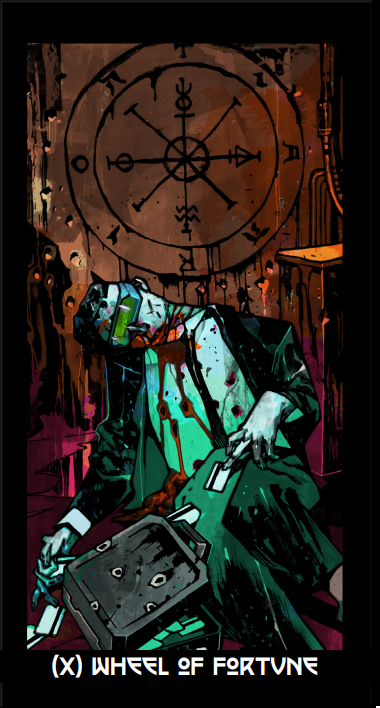
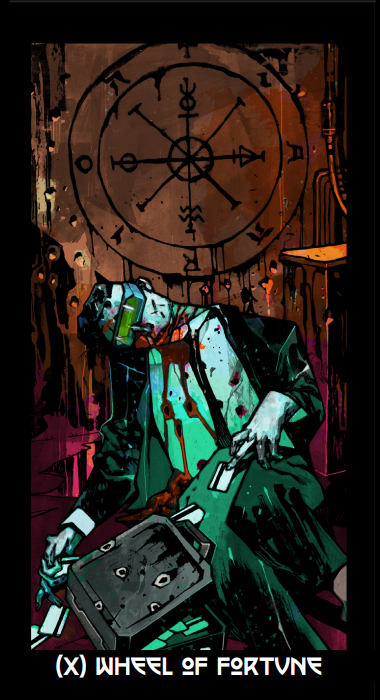
Melhorias gerais
Reset.css, icone, botão melhorado e melhor para celular

diff --git a/reset.css b/reset.css
@@ -1,0 +1,48 @@
+/* http://meyerweb.com/eric/tools/css/reset/ 
+   v2.0 | 20110126
+   License: none (public domain)
+*/
+
+html, body, div, span, applet, object, iframe,
+h1, h2, h3, h4, h5, h6, p, blockquote, pre,
+a, abbr, acronym, address, big, cite, code,
+del, dfn, em, img, ins, kbd, q, s, samp,
+small, strike, strong, sub, sup, tt, var,
+b, u, i, center,
+dl, dt, dd, ol, ul, li,
+fieldset, form, label, legend,
+table, caption, tbody, tfoot, thead, tr, th, td,
+article, aside, canvas, details, embed, 
+figure, figcaption, footer, header, hgroup, 
+menu, nav, output, ruby, section, summary,
+time, mark, audio, video {
+	margin: 0;
+	padding: 0;
+	border: 0;
+	font-size: 100%;
+	font: inherit;
+	vertical-align: baseline;
+}
+/* HTML5 display-role reset for older browsers */
+article, aside, details, figcaption, figure, 
+footer, header, hgroup, menu, nav, section {
+	display: block;
+}
+body {
+	line-height: 1;
+}
+ol, ul {
+	list-style: none;
+}
+blockquote, q {
+	quotes: none;
+}
+blockquote:before, blockquote:after,
+q:before, q:after {
+	content: '';
+	content: none;
+}
+table {
+	border-collapse: collapse;
+	border-spacing: 0;
+}

diff --git a/style.css b/style.css
@@ -11,13 +11,25 @@ body{
 }
 
 #taro{
-    height: 85%;
-    width: 20%;
-    border:red 7px groove;
+    margin-top: 10%;
+    height: 45em;
+    width: 17em;
+    border:red 6px ridge;
 }
 
 #botao{
-    border: 5px ridge red;
+    border: 4px ridge red;
+    border-radius: 5px;
+    background: black;
+    color: red;
     height: 3em;
-    width: 13em;
+    width: 14em;
+    margin-bottom: 10%;
+    font: 2em monospace;
+    cursor:pointer;
+    transition: all 0.3s;
+}
+#botao:hover{
+    border: 4px ridge crimson;
+    color: crimson;
 }

diff --git a/index.html b/index.html
@@ -6,6 +6,8 @@
     <meta name="viewport" content="width=device-width, initial-scale=1.0">
     <title>Night City Tarot</title>
     <link rel="stylesheet" href="./style.css">
+    <link rel="stylesheet" href="./reset.css">
+    <link rel="icon" href="Card.ico">
 </head>
 <body>
     <img src="Cartas\back.png" id="taro">
